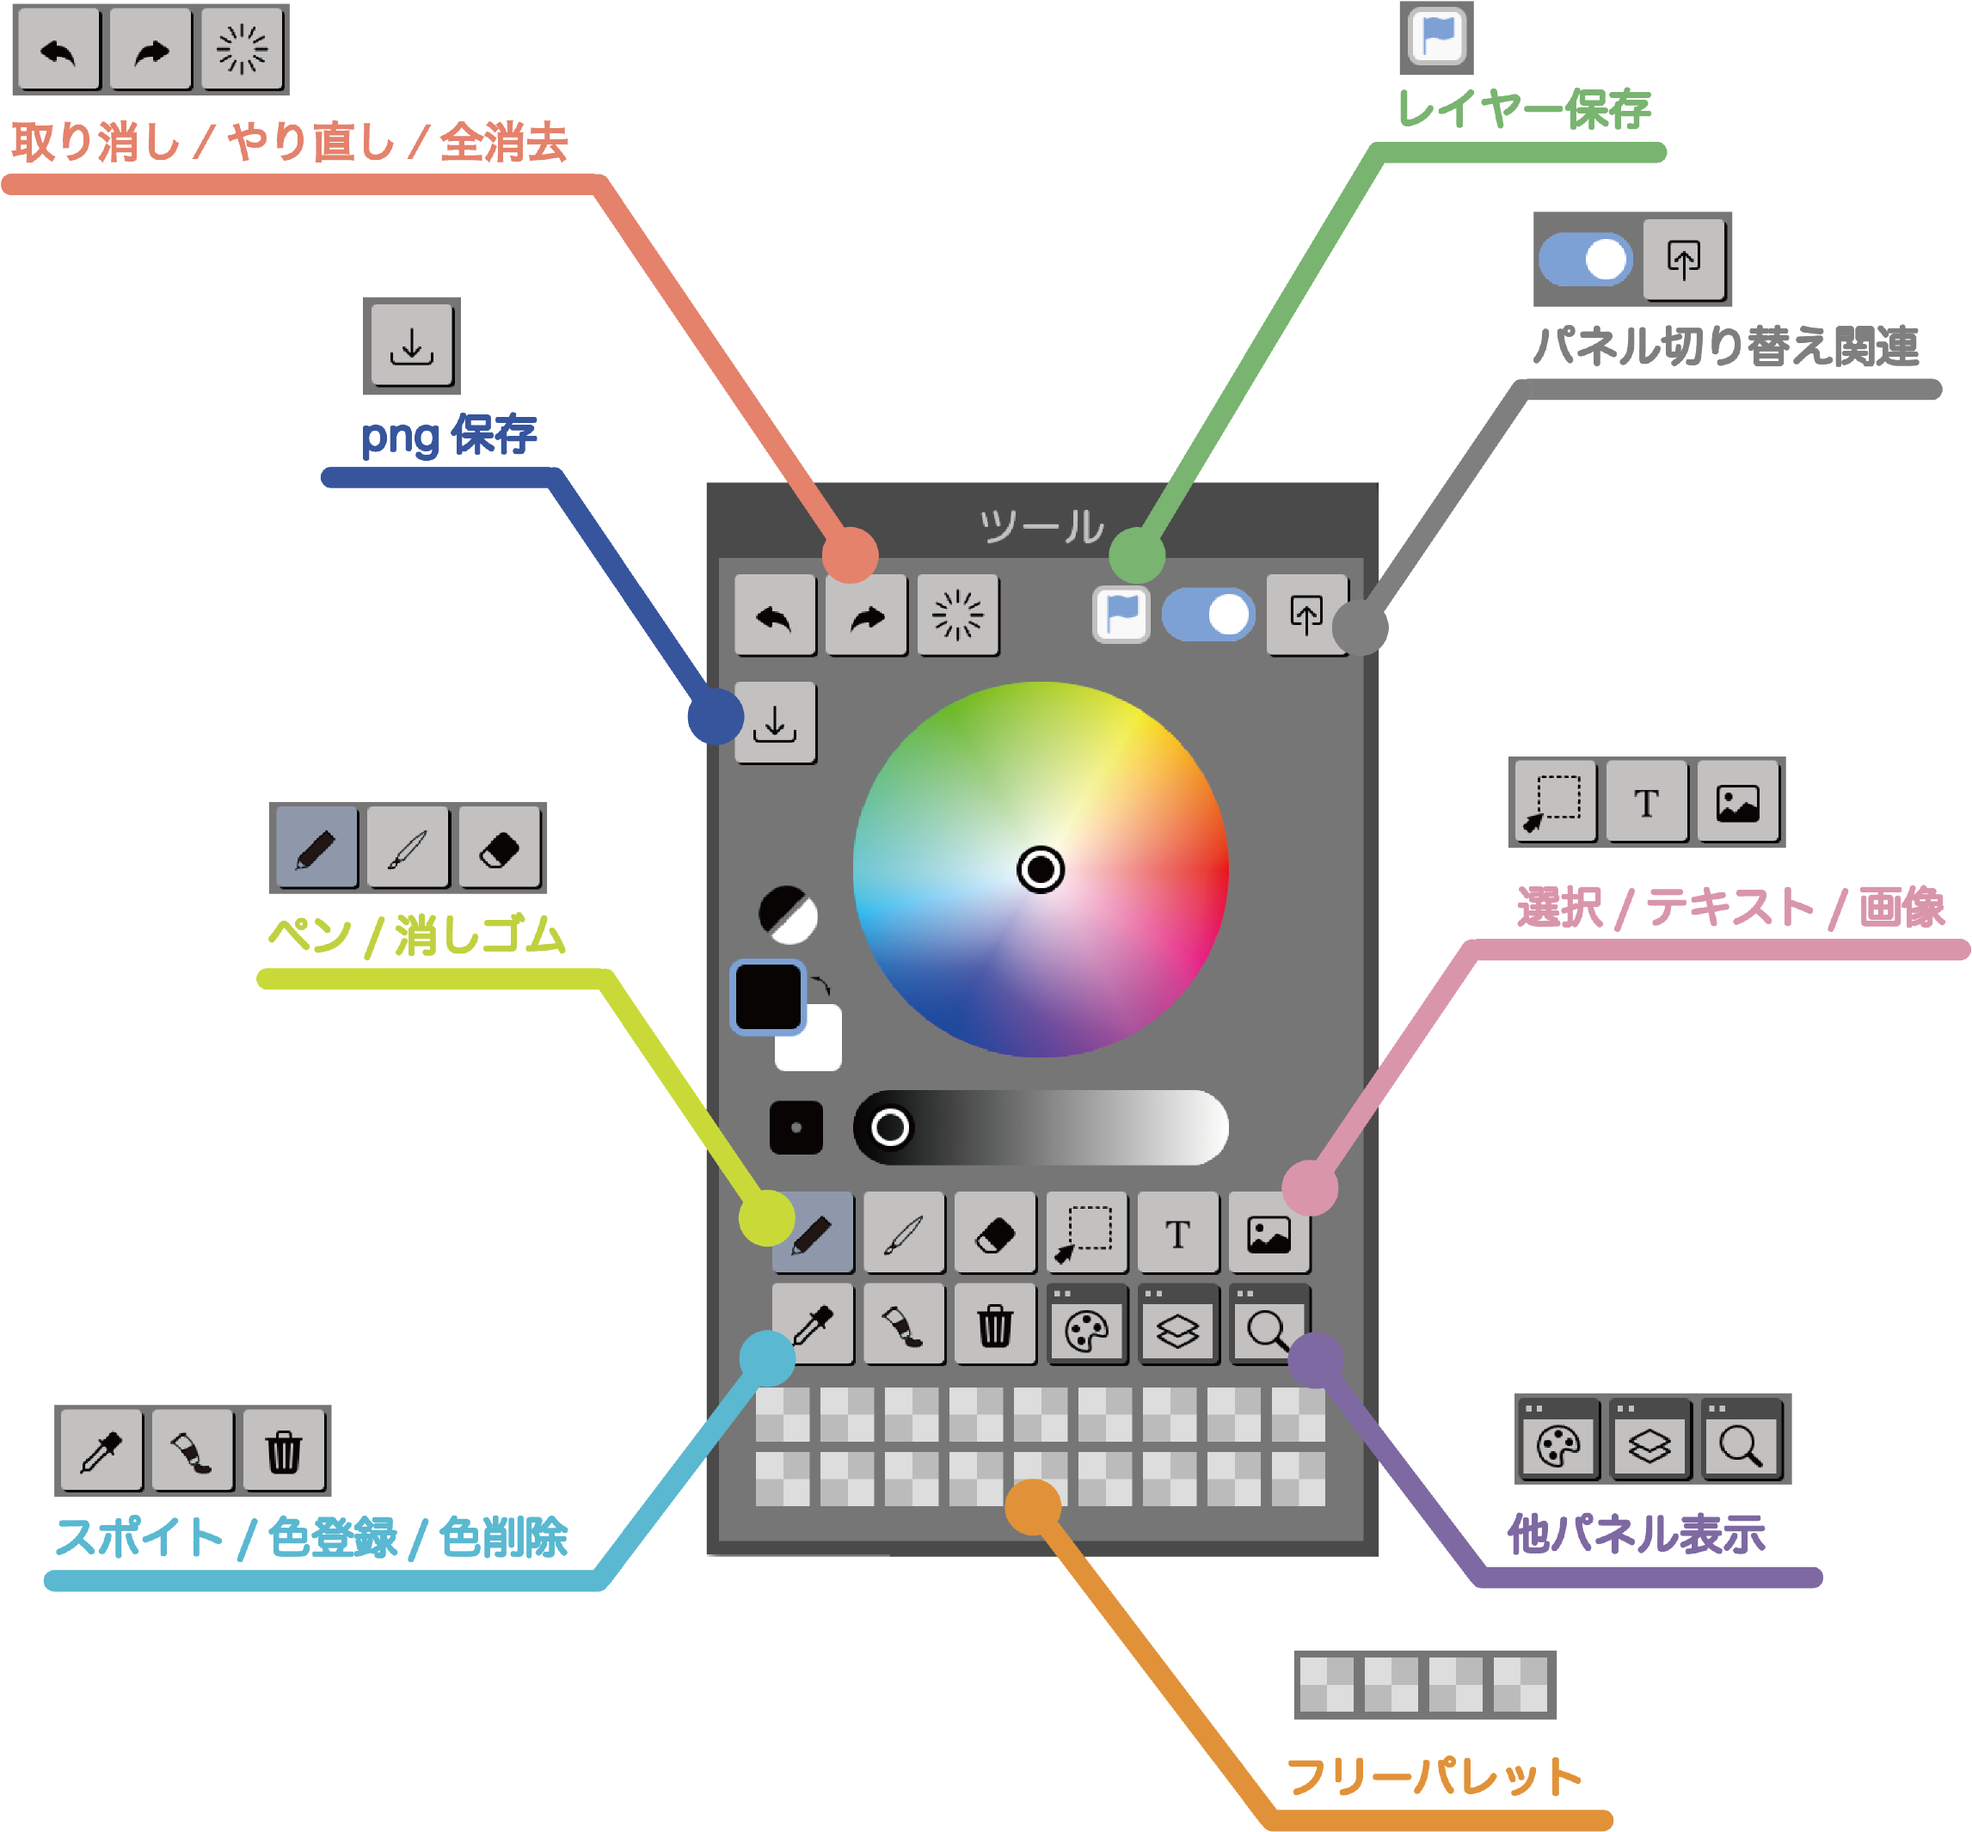
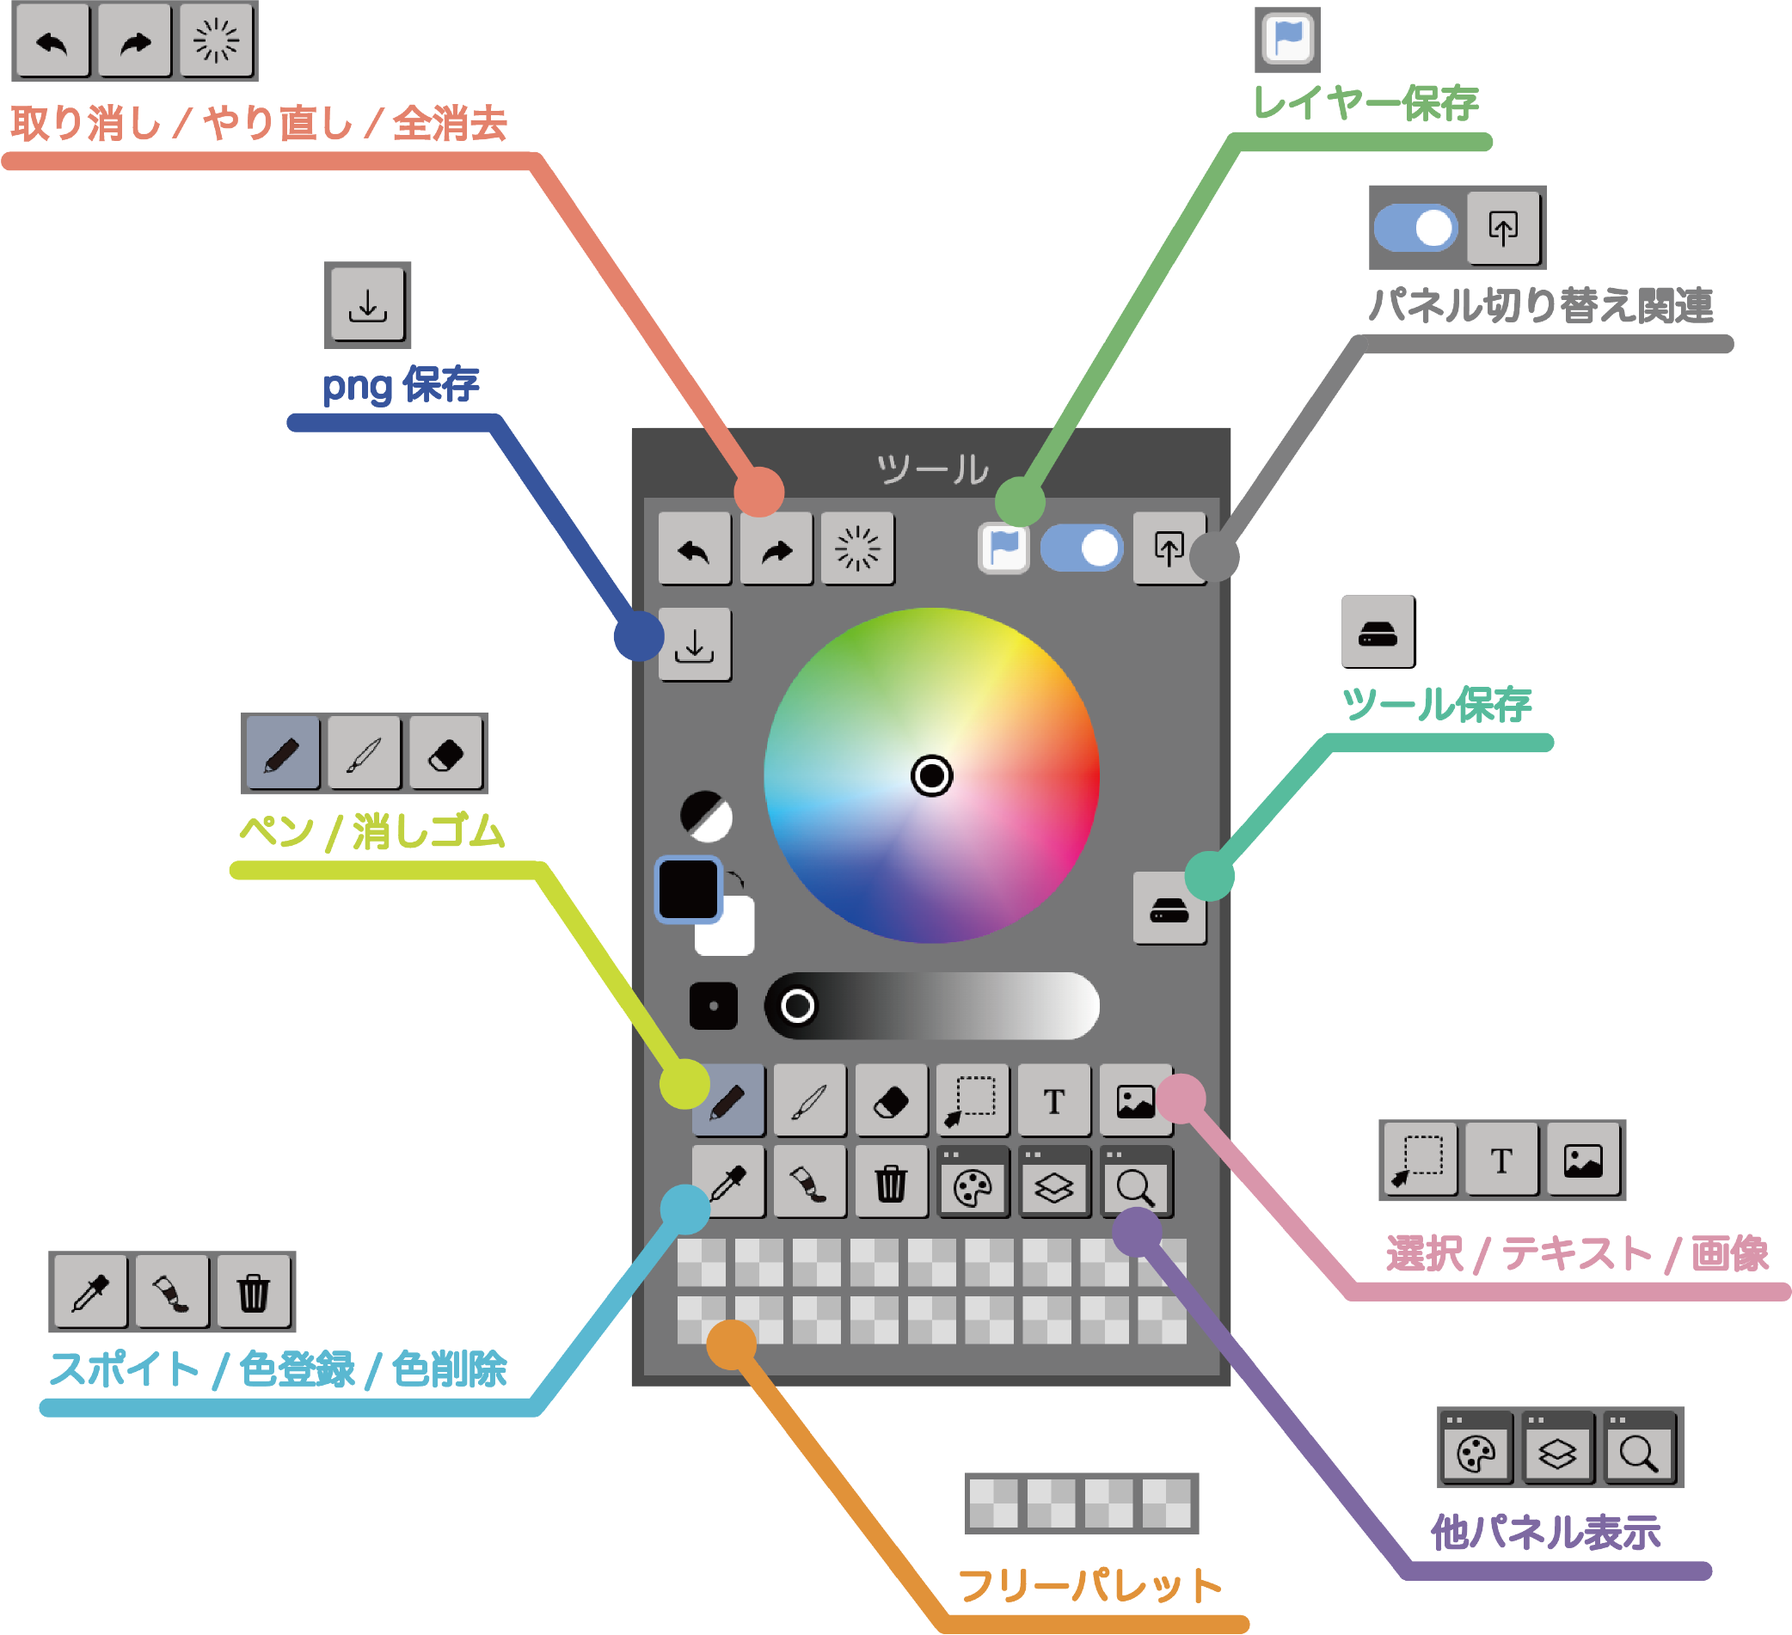
ツール保存の追加2

diff --git a/app/javascript/src/components/p5partscomponents/PenToolShareValueComponent.jsx b/app/javascript/src/components/p5partscomponents/PenToolShareValueComponent.jsx
@@ -641,7 +641,7 @@ const PenToolShareValueComponent = ({penToolShareParts, tool, inputValue, minVal
             <div className="flex-between" style={{ width: '150px', marginTop: '8px' }}>
               <div className="flex-column">
                 <span className="text-Rounded" style={{ fontSize: '10px', color: '#ececec' }}>最小補間率</span>
-                <div>
+                <div className='tooltip-container'>
                   <input
                     className="no-drag form-select-value"
                     type="number"
@@ -656,13 +656,14 @@ const PenToolShareValueComponent = ({penToolShareParts, tool, inputValue, minVal
                     onMouseEnter={() => handleDescriptionMouseEnter('最小補間率', '筆圧がゆっくり変化する時のペンの反応速度。値が小さいほど滑らかに、大きいほど直接的に反応します。')}
                     onTouchStart={() => handleDescriptionMouseEnter('最小補間率', '筆圧がゆっくり変化する時のペンの反応速度。値が小さいほど滑らかに、大きいほど直接的に反応します。')}
                   />
+                  <span className="tooltip-text" style={{ textAlign: 'left' }}>調整範囲：0〜1</span>
                 </div>
               </div>
 
               {/* 「筆圧変動が早い時の補間率」フォーム */}
               <div className="flex-column">
                 <span className="text-Rounded" style={{ fontSize: '10px', color: '#ececec' }}>最大補間率</span>
-                  <div>
+                  <div className='tooltip-container'>
                     <input
                       className="no-drag form-select-value"
                       type="number"
@@ -677,6 +678,7 @@ const PenToolShareValueComponent = ({penToolShareParts, tool, inputValue, minVal
                       onMouseEnter={() => handleDescriptionMouseEnter('最大補間率', '筆圧が急激に変化する時のペンの反応速度。値が小さいほど滑らかに、大きいほど即座に反応します。')}
                       onTouchStart={() => handleDescriptionMouseEnter('最大補間率', '筆圧が急激に変化する時のペンの反応速度。値が小さいほど滑らかに、大きいほど即座に反応します。')}
                     />
+                    <span className="tooltip-text" style={{ textAlign: 'left' }}>調整範囲：0〜1</span>
                   </div>
               </div>
             </div>
@@ -821,7 +823,7 @@ const PenToolShareValueComponent = ({penToolShareParts, tool, inputValue, minVal
                 {/* 「サイズ補間率」フォーム */}
                 <div className="flex" style={{ marginTop: '8px' }}>
                   <span className="text-Rounded" style={{ fontSize: '10px', color: '#ececec' }}>サイズの補間率：</span>
-                  <div>
+                  <div className='tooltip-container'>
                     <input
                       className="no-drag form-select-value"
                       type="number"
@@ -836,6 +838,7 @@ const PenToolShareValueComponent = ({penToolShareParts, tool, inputValue, minVal
                       onMouseEnter={() => handleDescriptionMouseEnter('サイズの補間率', '筆圧が変化する時のサイズの補間率を調整します。')}
                       onTouchStart={() => handleDescriptionMouseEnter('サイズの補間率', '筆圧が変化する時のサイズの補間率を調整します。')}
                     />
+                    <span className="tooltip-text" style={{ textAlign: 'left' }}>調整範囲：0〜1</span>
                   </div>
                 </div>
 

diff --git a/app/javascript/src/components/P5CanvasCore.jsx b/app/javascript/src/components/P5CanvasCore.jsx
@@ -241,6 +241,7 @@ useEffect(() => {
       const toolSizeData = toolData.p5Core;
       // console.log('ツールサイズデータ', toolSizeData);
       setToolSize(toolSizeData.toolSize);
+      setMinSize(toolSizeData.minSize);
     }
   }
 }, [toolDateParameters]);
@@ -250,8 +251,10 @@ useEffect(() => {
   }, [minSize]);
 
   useEffect(() => {
-    setMinSize(toolSize / 2);
-    setInputMinValue(String(toolSize / 2));
+    if (minSize > toolSize) {
+      setMinSize(toolSize / 2);
+    }
+    //setInputMinValue(String(toolSize / 2));
   }, [toolSize]);
 
   //minSizeの内部処理は外部に飛ばすためminSizeの更新とRefが完全に同期するように記述

diff --git a/app/javascript/src/components/P5ToolSaveBtn.jsx b/app/javascript/src/components/P5ToolSaveBtn.jsx
@@ -75,7 +75,8 @@ const P5ToolSaveBtn = ({ profileId }) => {
   } = useP5PenToolParametersContext();
 
   const {
-    toolSize
+    toolSize,
+    minSize
   } = useP5CanvasCoreShare();
 
 
@@ -103,7 +104,8 @@ const P5ToolSaveBtn = ({ profileId }) => {
       //p5コアに送るもの(useP5CanvasCoreShare)
       p5Core: {
       //ツールサイズ
-      toolSize: toolSize
+      toolSize: toolSize,
+      minSize: minSize
       },
   
       //カラーに送るもの(useP5Color)
